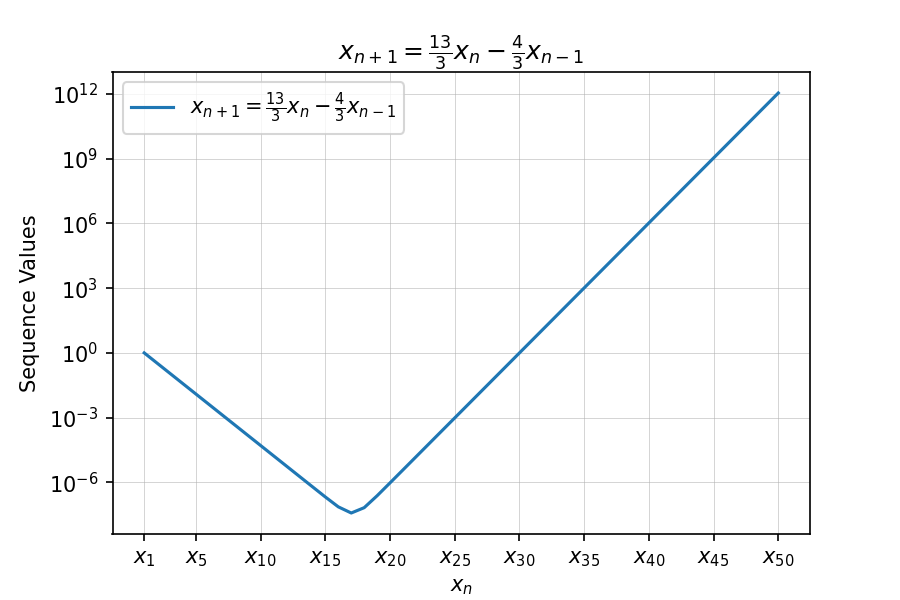
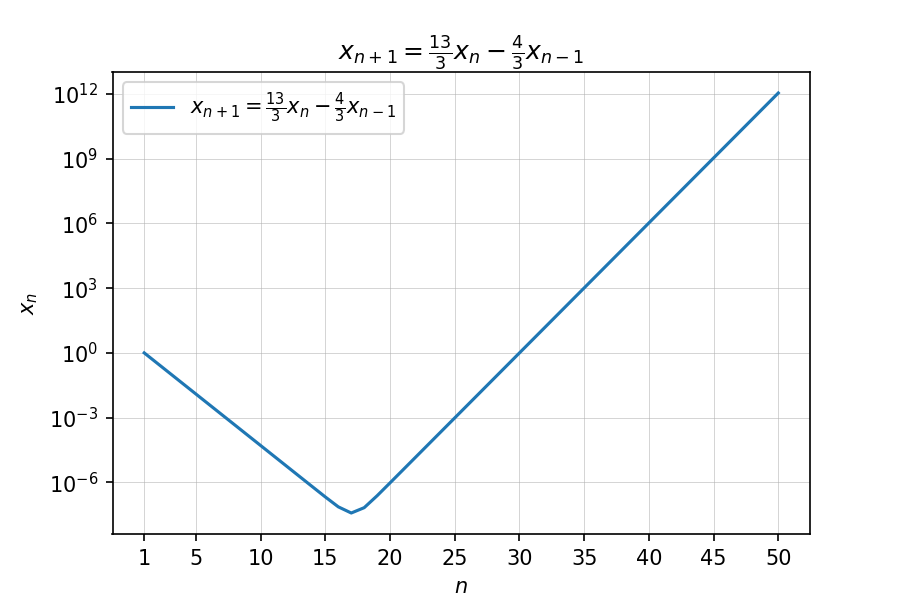
A new plot for question 1 is added. Some label changes for the plots.

diff --git a/questions/question1.py b/questions/question1.py
@@ -29,16 +29,31 @@ class question1:
 
         plt.plot(np.arange(1, l + 1), self.calculatedElements, label='$x_n = (1 - \sqrt{3})^{n-1}$')
         plt.yscale('log')
-        plt.xlabel('$x_n$')
-        plt.ylabel('Sequence Values')
+        plt.xlabel('$n$')
+        plt.ylabel('$x_n$')
         plt.title('$x_n = (1 - \sqrt{3})^{n-1}$')
 
         custom_ticks = [1] + list(range(10, l + 1, 10))
-        custom_tick_labels = [f'$x_{{{i}}}$' for i in custom_ticks]
-        plt.xticks(custom_ticks, custom_tick_labels)
+        plt.xticks(custom_ticks)
 
         plt.grid(linewidth=0.25)
         
+        plt.legend()
+
+        plt.show()
+
+        plt.figure(figsize=(6, 4), dpi=150)
+
+        plt.plot(np.arange(1, l + 1), self.calculatedElements, label='$x_n = (1 - \sqrt{3})^{n-1}$')
+        plt.xlabel('$n$')
+        plt.ylabel('$x_n$')
+        plt.title('$x_n = (1 - \sqrt{3})^{n-1}$')
+
+        plt.xticks(custom_ticks)
+
+        plt.ylim(-1, 1)
+        plt.grid(linewidth=0.25)
+
         plt.legend()
 
         plt.show()

diff --git a/questions/question3.py b/questions/question3.py
@@ -29,13 +29,12 @@ class question3:
 
         plt.plot(np.arange(1, l + 1), self.calculatedElements, label='$x_{n+1} = \\frac{13}{3}x_n - \\frac{4}{3}x_{n-1}$')
         plt.yscale('log')
-        plt.xlabel('$x_n$')
-        plt.ylabel('Sequence Values')
+        plt.xlabel('$n$')
+        plt.ylabel('$x_n$')
         plt.title('$x_{n+1} = \\frac{13}{3}x_n - \\frac{4}{3}x_{n-1}$')
 
         custom_ticks = [1] + list(range(5, l + 1, 5))
-        custom_tick_labels = [f'$x_{{{i}}}$' for i in custom_ticks]
-        plt.xticks(custom_ticks, custom_tick_labels)
+        plt.xticks(custom_ticks)
 
         plt.grid(linewidth=0.25)
 
